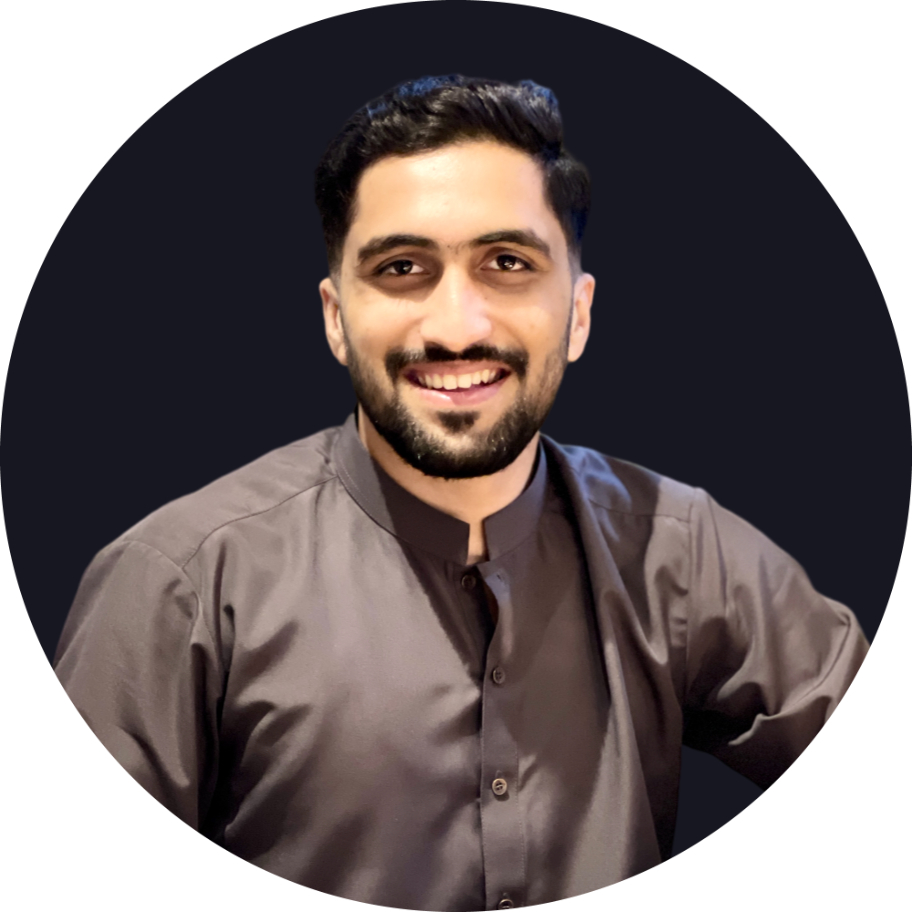
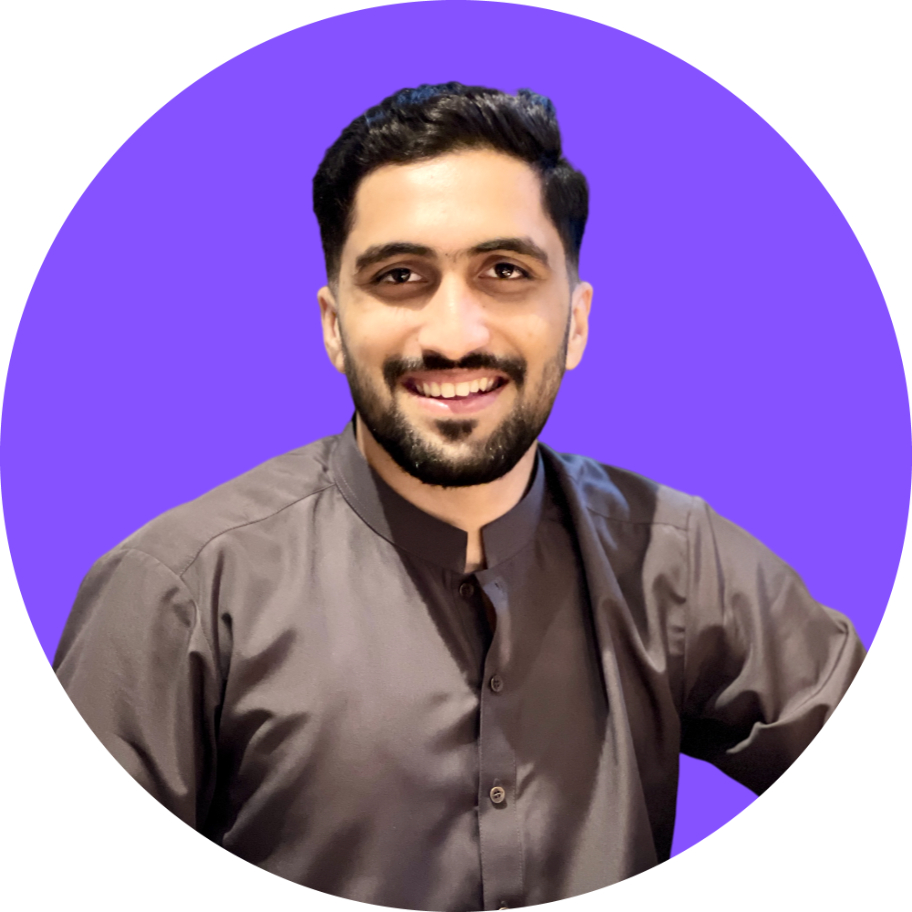
Testing

diff --git a/src/components/Navbar/NavbarStyledComponent.js b/src/components/Navbar/NavbarStyledComponent.js
@@ -1,20 +1,20 @@
-import { Link as LinkR } from 'react-router-dom';
-import styled from 'styled-components';
-import _default from '../../themes/default';
+import { Link as LinkR } from "react-router-dom";
+import styled from "styled-components";
+import _default from "../../themes/default";
 
 export const Nav = styled.div`
-    background-color: ${({theme}) => theme.card_light};
-    height: 80px;
-    display: flex;
-    align-items: center;
-    justify-content: center;
-    font-size: 1rem;
-    position: sticky;
-    top: 0;
-    z-index: 10;
-    @media (max-width: 960px) {
-        trastion: 0.8s all ease;
-    }
+  background-color: ${({ theme }) => theme.card_light};
+  height: 80px;
+  display: flex;
+  align-items: center;
+  justify-content: center;
+  font-size: 1rem;
+  position: sticky;
+  top: 0;
+  z-index: 10;
+  @media (max-width: 960px) {
+    trastion: 0.8s all ease;
+  }
 `;
 export const NavbarContainer = styled.div`
   display: flex;
@@ -28,76 +28,75 @@ export const NavbarContainer = styled.div`
 `;
 
 export const NavLogo = styled(LinkR)`
-    width: 80%;    
-    padding: 0 6px;
-    display: flex;
-    justify-content: start;
-    align-items: center;
-    text-decoration: none;
-    @media (max-width: 640px) {
-      padding: 0 0px;
+  width: 80%;
+  padding: 0 6px;
+  display: flex;
+  justify-content: start;
+  align-items: center;
+  text-decoration: none;
+  @media (max-width: 640px) {
+    padding: 0 0px;
   }
 `;
 export const Span = styled.div`
-    padding: 0 4px;
-    font-weight: bold;
-    font-size: 18px;
+  padding: 0 4px;
+  font-weight: bold;
+  font-size: 18px;
 `;
 export const NavItems = styled.ul`
-    width: 100%;
-    display: flex;
-    align-items: center;
-    justify-content:center;
-    gap: 32px;
-    padding: 0 6px;
-    list-style: none;
+  width: 100%;
+  display: flex;
+  align-items: center;
+  justify-content: center;
+  gap: 32px;
+  padding: 0 6px;
+  list-style: none;
 
-    @media screen and (max-width: 768px) {
-      display: none;
-    }
+  @media screen and (max-width: 768px) {
+    display: none;
+  }
 `;
 
 export const NavLink = styled.a`
-    color: ${({ theme }) => theme.text_primary};
-    font-weight: 500;
-    cursor: pointer;
-    transition: all 0.2s ease-in-out;
-    text-decoration: none;
-    :hover {
-      color: ${({ theme }) => theme.primary};
-    }
+  color: ${({ theme }) => theme.text_primary};
+  font-weight: 500;
+  cursor: pointer;
+  transition: all 0.2s ease-in-out;
+  text-decoration: none;
+  :hover {
+    color: ${({ theme }) => theme.button};
+  }
 
-    &.active {
-      border-bottom: 2px solid ${({ theme }) => theme.primary};
-    }
+  &.active {
+    border-bottom: 2px solid ${({ theme }) => theme.primary};
+  }
 `;
 
-
 export const GitHubButton = styled.a`
-  border: 1.8px solid ${({ theme }) => theme.primary};
+  border: 1.8px solid ${({ theme }) => theme.button};
   justify-content: center;
   display: flex;
   align-items: center;
   height: 70%;
   border-radius: 20px;
-  color: ${({ theme }) => theme.primary};
+  color: ${({ theme }) => theme.button};
   cursor: pointer;
   padding: 0 20px;
   font-weight: 500;
   text-decoration: none;
   font-size: 16px;
   transition: all 0.6s ease-in-out;
-    :hover {
-      background: ${({ theme }) => theme.primary};
-      color: ${({ theme }) => theme.white};     
-    }
-    @media screen and (max-width: 768px) { 
+  :hover {
+    background: ${({ theme }) => theme.button};
+    color: ${({ theme }) => theme.primary};
+  }
+  @media screen and (max-width: 768px) {
     font-size: 14px;
-    }
+  }
 `;
 
 export const ButtonContainer = styled.div`
-  width: 80%;  
+  width: 80%;
   height: 100%;
   display: flex;
   justify-content: end;
@@ -107,7 +106,6 @@ export const ButtonContainer = styled.div`
     display: none;
   }
 `;
-
 
 export const MobileIcon = styled.div`
   display: none;
@@ -121,27 +119,27 @@ export const MobileIcon = styled.div`
     cursor: pointer;
     color: ${({ theme }) => theme.text_primary};
   }
-`
+`;
 
 export const MobileMenu = styled.div`
-    display: flex;
-    flex-direction: column;
-    justify-content: center;
-    gap: 16px;
-    position: absolute;
-    top: 80px;
-    right: 0;
-    width: 100%;
-    padding: 12px 40px 24px 40px;
-    background: ${({ theme }) => theme.card_light+99};
-    transition: all 0.6s ease-in-out;
-    transform: ${({ isOpen }) => (isOpen ? 'translateY(0)' : 'translateY(-100%)')};
-    border-radius: 0 0 20px 20px;
-    box-shadow: 0 0 10px 0 rgba(0, 0, 0, 0.2);
-    opacity: ${({ isOpen }) => (isOpen ? '100%' : '0')};
-    z-index: ${({ isOpen }) => (isOpen ? '1000' : '-1000')};
-
-`
+  display: flex;
+  flex-direction: column;
+  justify-content: center;
+  gap: 16px;
+  position: absolute;
+  top: 80px;
+  right: 0;
+  width: 100%;
+  padding: 12px 40px 24px 40px;
+  background: ${({ theme }) => theme.card_light + 99};
+  transition: all 0.6s ease-in-out;
+  transform: ${({ isOpen }) =>
+    isOpen ? "translateY(0)" : "translateY(-100%)"};
+  border-radius: 0 0 20px 20px;
+  box-shadow: 0 0 10px 0 rgba(0, 0, 0, 0.2);
+  opacity: ${({ isOpen }) => (isOpen ? "100%" : "0")};
+  z-index: ${({ isOpen }) => (isOpen ? "1000" : "-1000")};
+`;
 
 export const MobileMenuItems = styled.ul`
   display: flex;
@@ -152,7 +150,7 @@ export const MobileMenuItems = styled.ul`
   list-style: none;
   width: 100%;
   height: 100%;
-`
+`;
 
 export const MobileMenuLink = styled(LinkR)`
   color: ${({ theme }) => theme.text_primary};
@@ -190,14 +188,14 @@ export const MobileMenuButton = styled.a`
   }
 `;
 
-export  const MobileLink = styled.a`
+export const MobileLink = styled.a`
   color: ${({ theme }) => theme.text_primary};
   font-weight: 500;
   cursor: pointer;
   transition: all 0.2s ease-in-out;
   text-decoration: none;
   :hover {
-    color: ${({ theme }) => theme.primary};
+    color: ${({ theme }) => theme.button};
   }
 
   &.active {

diff --git a/src/components/HeroSection/HeroStyle.js b/src/components/HeroSection/HeroStyle.js
@@ -99,7 +99,7 @@ export const Img = styled.img`
   max-width: 400px;
   max-height: 400px;
   border-radius: 50%;
-  border: 2px solid ${({ theme }) => theme.primary};
+  border: 2px solid ${({ theme }) => theme.button};
 
   @media (max-width: 768px) {
     max-width: 400px;
@@ -146,7 +146,7 @@ export const TextLoop = styled.div`
 `;
 
 export const Span = styled.span`
-  color: ${({ theme }) => theme.primary};
+  color: ${({ theme }) => theme.button};
   cursor: pointer;
 `;
 
@@ -154,7 +154,7 @@ export const SubTitle = styled.div`
   font-size: 20px;
   line-height: 32px;
   margin-bottom: 42px;
-  color: ${({ theme }) => theme.text_primary + 95};
+  color: ${({ theme }) => theme.text_secondary};
 
   @media (max-width: 960px) {
     text-align: center;
@@ -175,18 +175,13 @@ export const ResumeButton = styled.a`
     max-width: 300px;
     text-align: center;
     padding: 16px 0;
-    color:${({ theme }) => theme.white};
+    color:${({ theme }) => theme.card_light};
     border-radius: 20px;
     cursor: pointer;
     font-size: 20px;
     font-weight: 600;
     transition: all 0.2s ease-in-out !important;
-    background: hsla(271, 100%, 50%, 1);
-    background: linear-gradient(225deg, hsla(271, 100%, 50%, 1) 0%, hsla(294, 100%, 50%, 1) 100%);
-    background: -moz-linear-gradient(225deg, hsla(271, 100%, 50%, 1) 0%, hsla(294, 100%, 50%, 1) 100%);
-    background: -webkit-linear-gradient(225deg, hsla(271, 100%, 50%, 1) 0%, hsla(294, 100%, 50%, 1) 100%);
-    box-shadow:  20px 20px 60px #1F2634,
-    -20px -20px 60px #1F2634;
+    background: #FFF550;
     &:hover {
         transform: scale(1.05);
     transition: all 0.4s ease-in-out;

diff --git a/src/utils/Themes.js b/src/utils/Themes.js
@@ -1,12 +1,12 @@
 export const darkTheme = {
-    bg:"#1C1C27",
+    bg:"#9A6BFF",
     bgLight: "#1C1E27",
     primary:"#854CE6",
     text_primary:"#F2F3F4",
-    text_secondary:"#b1b2b3",
+    text_secondary:"#F1EAFF",
     card:"#171721",
-    card_light: '#191924',
-    button:"#854CE6",
+    card_light: '#8652FF',
+    button:"#FFF550",
     white:"#FFFFFF",
     black:"#000000",
 }
